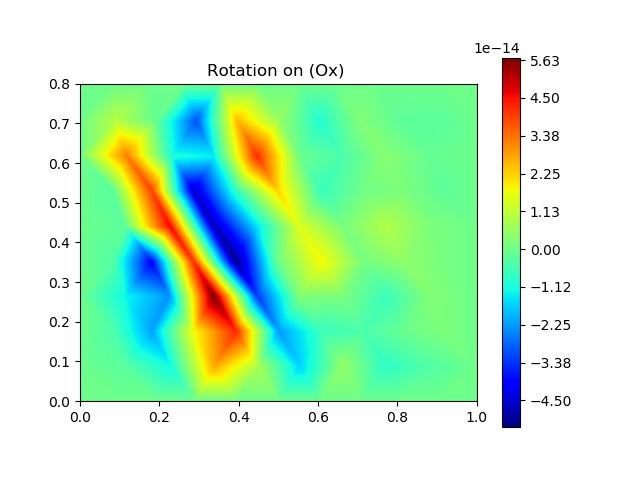
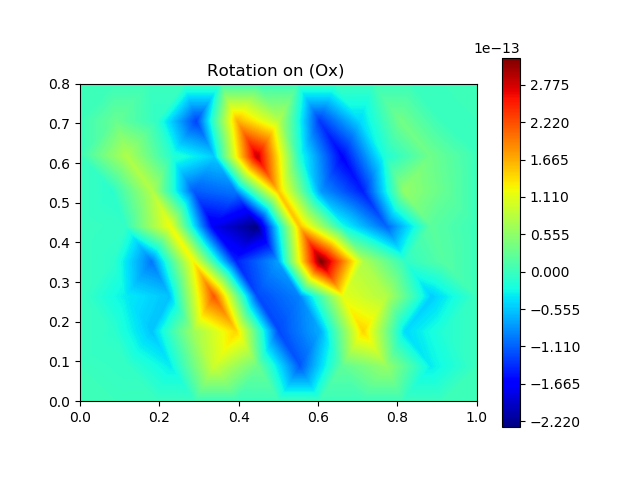
Sparse for Non Linear Module

diff --git a/src_code/solving.py b/src_code/solving.py
@@ -54,11 +54,15 @@ def FEM(total_loading,X,T,b,Ngauss,box,analysis_type,transient,material_param, *
             if istherePlast != 0:
                 plast_param = args[0]
 
-            Fb = F.T
-            Fb = Fb[0]
+            if analysis_type[0,2] == 1:
+                Fb = F.T
+                Fb = Fb[0]
+
+            else:
+                Fb = F
 
             U, Fb, sxx, syy, sxy, saved_residual, epxx, epyy, epxy, saved_deltaU = \
-                plastic_analysis(X, T, K, Fb, plast_param, material_param, b, box, total_loading, Ngauss)
+                plastic_analysis(X, T, K, Fb, plast_param, material_param, b, box, total_loading, Ngauss, analysis_type)
             return  U, Fb, sxx, syy, sxy, saved_residual, epxx, epyy, epxy, saved_deltaU
 
 
@@ -353,7 +357,7 @@ def FEM(total_loading,X,T,b,Ngauss,box,analysis_type,transient,material_param, *
         return K, F, SOL
 
 
-def plastic_analysis(X, T, globalK, Fb, plast_param, material_param, b, box, total_loading, Ngauss):
+def plastic_analysis(X, T, globalK, Fb, plast_param, material_param, b, box, total_loading, Ngauss, analysis_type):
 
     script_dir = os.path.dirname(os.path.dirname(os.path.abspath(__file__)))
     results_dir = os.path.join(script_dir, 'Results/')
@@ -363,6 +367,10 @@ def plastic_analysis(X, T, globalK, Fb, plast_param, material_param, b, box, tot
     text_file = open(results_dir+'Non_Linear_Results.txt', "w")
     data_text = 'The yield stresses, displacements, and information on load increments are shown here:'
 
+
+
+    if analysis_type[0,2] == 0:
+        globalK = globalK.tocsr()
 
     TT=T.shape[0]
 
@@ -393,9 +401,11 @@ def plastic_analysis(X, T, globalK, Fb, plast_param, material_param, b, box, tot
 
     #The load is divided on equal incremental loads
     deltaFb = Fb/Nincr
-    Fb = np.zeros((deltaFb.shape[0],1))
-    Fb = Fb.T
-    Fb = Fb[0]
+    if analysis_type[0,2] == 1:
+        Fb = np.zeros((deltaFb.shape[0],1))
+        Fb = Fb.T[0]
+    else:
+        Fb = sp.lil_matrix((deltaFb.shape[0],1))
     saved_residual = []
     sxx = []
     syy = []
@@ -433,19 +443,10 @@ def plastic_analysis(X, T, globalK, Fb, plast_param, material_param, b, box, tot
     i=0
     while i<Nincr:
 
-
-        #if i!=0:
-
-        #    globalK, Q_data = tangent_stiffness(X, T, material_param, limit, b, box, total_loading, np.zeros((deltaFb.shape[0],0)), saved_stress_xx_ev, saved_stress_yy_ev, saved_stress_xy_ev, saved_delta_lambda, gone_plastic)
-
-
-
         deltaU = np.zeros((deltaFb.shape[0],1))
-        deltaU = deltaU.T
-        deltaU = deltaU[0]
+        deltaU = deltaU.T[0]
 
         count=0
-        count2 = 0
 
         ii=0
         while ii < Niter:
@@ -465,7 +466,10 @@ def plastic_analysis(X, T, globalK, Fb, plast_param, material_param, b, box, tot
 
             if (ii != 0):
 
-                q = np.zeros((Nn, 1))
+                if analysis_type[0,2] == 1:
+                    q = np.zeros((Nn, 1))
+                else:
+                    q = sp.lil_matrix((Nn,1))
 
                 k = 0
                 while k<TT:
@@ -477,6 +481,7 @@ def plastic_analysis(X, T, globalK, Fb, plast_param, material_param, b, box, tot
 
 
                     j=0
+                    count2 = 0
                     while j<Nplies:
 
 
@@ -529,7 +534,7 @@ def plastic_analysis(X, T, globalK, Fb, plast_param, material_param, b, box, tot
 
                             previous_stress = interm[0:3]
 
-                            if (interm[3]>1e-7 and count2 ==0):
+                            if (interm[3]>1e-7 and ii==1 and count2 == 0):
                                 data_tmp = '\nPlasticity occurring in the layer '+str(j+1)+', spotted at the element number, '+str(k)
                                 data_text += data_tmp
                                 print(data_tmp)
@@ -548,23 +553,23 @@ def plastic_analysis(X, T, globalK, Fb, plast_param, material_param, b, box, tot
 
 
 
-                            #stress = np.array([[saved_stress_xx[k,j]*thickness[j][0]],[saved_stress_xy[k,j]*thickness[j][0]],[saved_stress_xy[k,j]*thickness[j][0]],\
-                            #                   [saved_stress_xx[k,j]*0.5 * (hi2 ** 2 - hi1 ** 2)[0]],[saved_stress_xy[k,j]*0.5 * (hi2 ** 2 - hi1 ** 2)[0]],[saved_stress_xy[k,j]*0.5 * (hi2 ** 2 - hi1 ** 2)[0]]])
-                            #qe += internal_force_elem(X, T, k, gp, Wgauss, stress)
-
                             thick+=1
 
                         j+=1
 
                     qe = internal_force_elem(X, T, k, gp, Wgauss, saved_stress_xx,saved_stress_yy,saved_stress_xy,thickness,mid_lay,pos)
-                    q[Tie1 - 1, :] += qe
+                    if analysis_type[0,2] == 1:
+                        q[Tie1 - 1, :] += qe
+                    else:
+                        q[Tie1 - 1, :] += sp.lil_matrix(qe)
                     k+=1
 
 
                 q = applying_Fix_q(total_loading, X, T, b, box, q)
-                q = q.T
-                q = q[0]
-                #q = np.dot(globalK, U)
+
+                if analysis_type[0,2] == 1:
+                    q = q.T
+                    q = q[0]
 
 
             check_yield = saved_delta_lambda[saved_delta_lambda>1e-7]
@@ -573,17 +578,38 @@ def plastic_analysis(X, T, globalK, Fb, plast_param, material_param, b, box, tot
 
 
 
-            if gone_plastic==1:
+            if gone_plastic == 1:
                 data_tmp = '\nComputing the new stiffness matrix'
                 data_text += data_tmp
                 print(data_tmp)
-                globalK, Q_data = tangent_stiffness(X, T, material_param, limit, b, box, total_loading, np.zeros((deltaFb.shape[0],0)), saved_stress_xx, saved_stress_yy, saved_stress_xy, saved_delta_lambda, gone_plastic)
+                if analysis_type[0,2] == 1:
+                    globalK, Q_data = tangent_stiffness(X, T, material_param, limit, b, box, total_loading, np.zeros((deltaFb.shape[0],1)), saved_stress_xx, saved_stress_yy, saved_stress_xy, saved_delta_lambda, gone_plastic, analysis_type)
+                else:
+                    globalK, Q_data = tangent_stiffness(X, T, material_param, limit, b, box, total_loading, sp.lil_matrix((deltaFb.shape[0],1)), saved_stress_xx, saved_stress_yy, saved_stress_xy, saved_delta_lambda, gone_plastic, analysis_type)
+                    globalK = globalK.tocsr()
                 count+=1
 
-            residual = Fb + deltaFb - q
-            residual = applying_Fix_q(total_loading, X, T, b, box, residual)
+            if analysis_type[0,2] == 1:
+                residual = Fb + deltaFb - q
+            else:
+                if ii==0:
+                    q = sp.lil_matrix(q)
 
-            tolerance = np.linalg.norm(residual)/np.linalg.norm(Fb+deltaFb)
+                if ii==0 and i == 0 :
+                    residual = sp.lil_matrix( Fb + deltaFb ) - q.T
+                else:
+                    residual = sp.lil_matrix( Fb + deltaFb ) - q
+                residual = residual.tolil()
+
+            residual = applying_Fix_q(total_loading, X, T, b, box, residual)
+            if analysis_type[0,2] == 0:
+                residual = residual.tocsr()
+
+            if analysis_type[0,2] == 1:
+                tolerance = np.linalg.norm(residual)/np.linalg.norm(Fb+deltaFb)
+            else:
+                tolerance = sp.linalg.norm(residual)/sp.linalg.norm(sp.csr_matrix(Fb+deltaFb))
+
             data_tmp = '\nResidual: '+str(tolerance)+' \n'
             data_text += data_tmp
             print(data_tmp)
@@ -616,7 +642,10 @@ def plastic_analysis(X, T, globalK, Fb, plast_param, material_param, b, box, tot
 
             else:
 
-                dU = np.linalg.solve(globalK,residual)
+                if analysis_type[0,2] == 1:
+                    dU = np.linalg.solve(globalK,residual)
+                else:
+                    dU = sp.linalg.spsolve(globalK, residual)
 
                 deltaU = deltaU + dU
 
@@ -635,7 +664,7 @@ def plastic_analysis(X, T, globalK, Fb, plast_param, material_param, b, box, tot
 
     return U, Fb, sxx, syy, sxy, saved_residual, epxx, epyy, epxy, saved_deltaU
 
-def tangent_stiffness(X,T, material_param, limit, b, box, total_loading, F, saved_stress_xx, saved_stress_yy, saved_stress_xy, saved_delta_lambda, gone_plastic):
+def tangent_stiffness(X,T, material_param, limit, b, box, total_loading, F, saved_stress_xx, saved_stress_yy, saved_stress_xy, saved_delta_lambda, gone_plastic,analysis_type):
 
 
     Xgauss, Wgauss = Quadrature(1, 3)
@@ -648,7 +677,10 @@ def tangent_stiffness(X,T, material_param, limit, b, box, total_loading, F, save
     angles = material_param['angles']
     thickness = material_param['thickness']
 
-    globalK = np.zeros((6*X.shape[0],6*X.shape[0]))
+    if analysis_type[0,2] == 1:
+        globalK = np.zeros((6*X.shape[0],6*X.shape[0]))
+    else:
+        globalK = sp.lil_matrix((6*X.shape[0],6*X.shape[0]))
 
     nPlies = thickness.shape[0]
     nT = T.shape[0]
@@ -718,13 +750,17 @@ def tangent_stiffness(X,T, material_param, limit, b, box, total_loading, F, save
 
 
         elemK = src_code.core.ElemMat(X,T,k,gp,Wgauss,K)
-        globalK[np.ix_(Tie1 - 1, Tie1 - 1)] += elemK
+        if analysis_type[0,2] == 1:
+            globalK[np.ix_(Tie1 - 1, Tie1 - 1)] += elemK
+        else:
+
+            globalK[np.ix_(Tie1 - 1, Tie1 - 1)] += sp.lil_matrix(elemK)
 
         k+=1
 
 
 
 
-    fixed_borders, globalK, M, F = applying_BC(total_loading,X,T,b,box,globalK,F)
+    fixed_borders, globalK, M, F = applying_BC(total_loading,X,T,b,box,globalK,F, analysis_type)
 
     return globalK, Q_data
